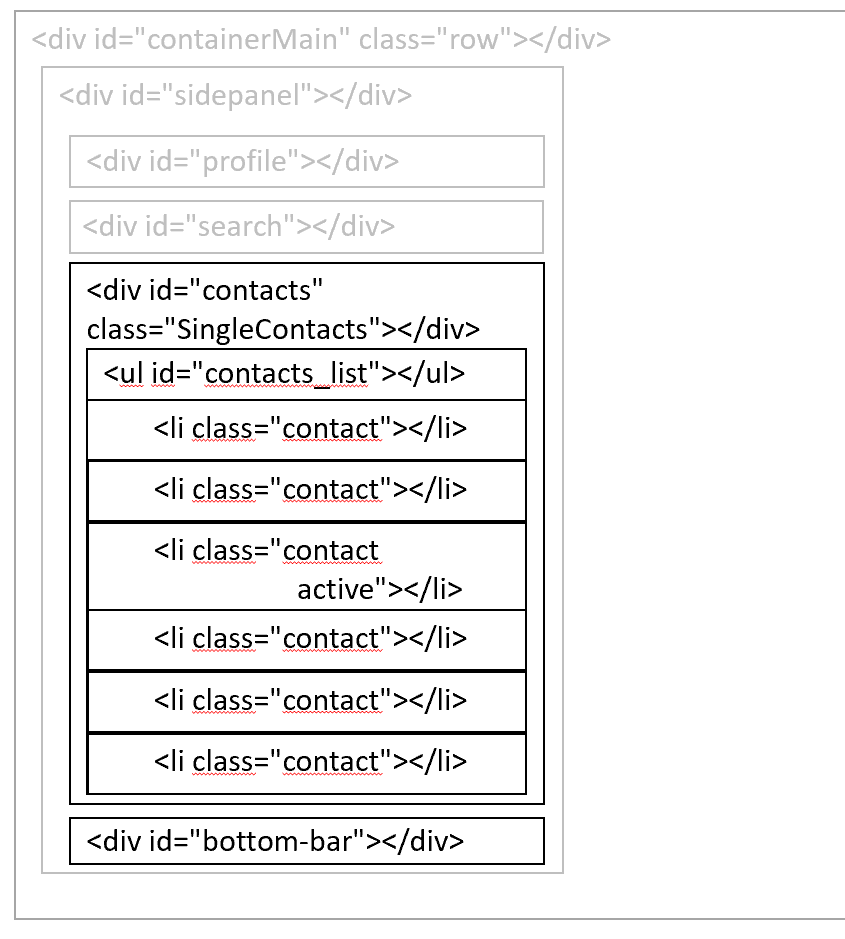
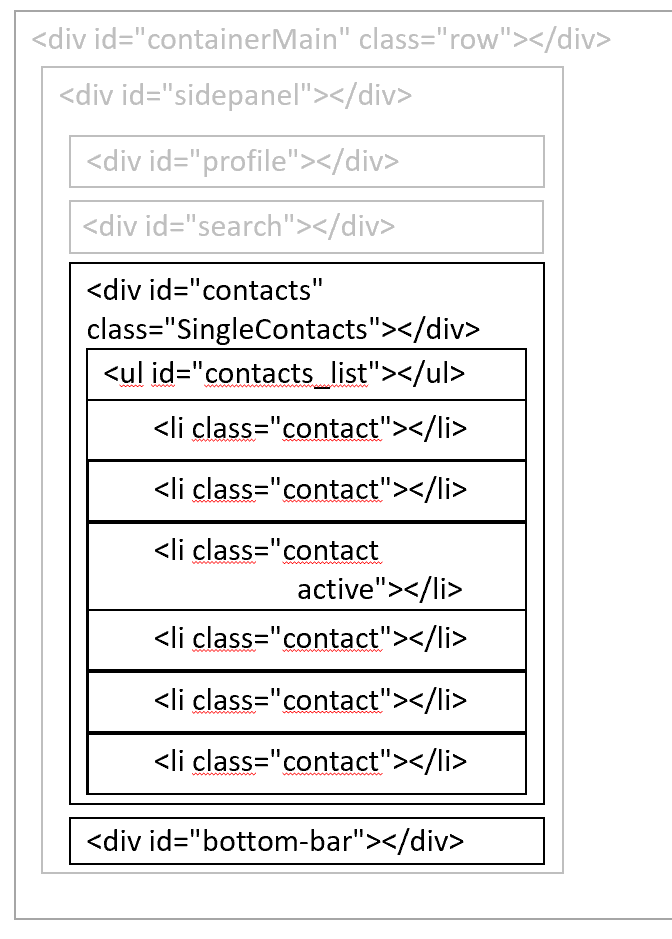
change pictures and refactoring of chapter frontend

diff --git a/LaTeX/Studienarbeit.tex b/LaTeX/Studienarbeit.tex
@@ -285,6 +285,32 @@ Ort, Datum & Oliver Klapper
 \newpage
 \pagenumbering{Roman}
 
+%authorenverzeichnis
+\addcontentsline{toc}{chapter}{Authorenübersicht}
+\chapter*{Autorenübersicht}
+\renewcommand{\arraystretch}{1.5}
+\begin{table}[h]
+	\centering
+	\begin{tabular*}{\linewidth}{lll@{\extracolsep{\fill}}}
+		\textbf{Kapitelnr.} & \textbf{Kapitel} & \textbf{Autor} \\
+		\hline
+		1 & Bedeutung von Instant-Messaging Systemen & Oliver K. \\
+		2 & Datenschutzrechtliche Aspekte & \\
+		3 & Anforderungen & Oliver K. \\
+		4 & Theoretische Grundlagen & Oliver K., Lukas P. \\
+		5 & Umsetzung und Implementierung & Oliver K., Lukas P.\\
+		6 & Umsetzung der Entwicklung einer REST API & Oliver K.\\
+		7 & Entwicklung der Frontends für den XMPP-Client & Lukas P.\\
+		8 & Entwicklung der Frontends für den Kafka-Client & Lukas P.\\
+		9 & Grundlagen von Softwaretest & Oliver K.\\
+		10 & Ergebnis & \\
+		11 & Fazit & \\
+	\end{tabular*}
+	\label{tab:autorenuebersicht}
+\end{table}
+
+\pagebreak
+
 
 %abkürzungsverzeichnis
 \cleardoublepage
@@ -2778,14 +2804,14 @@ Bei der Implementierung dynamischer Elemente, wie der Formularüberprüfung auf 
 Für die Entwicklung eines Web-Frontends bildet eine Rahmenstruktur die Basis. Hierbei handelt es sich um den Webauftritt durch die Verknüpfung mehrerer HTML-Dateien.\cite{buhler2017html5}
 Um auf den \ac{HTML}-Aufbau der Webseiten einzugehen ist das Verständnis über die Struktur und die Verknüpfung der Einzelseiten relevant. Für diese Verknüpfungen können die nachfolgenden Abbildungen betrachtet werden.
 \begin{figure}[h]
-	\begin{minipage}[c]{.4\textwidth}
-		\includegraphics[width=\textwidth]{images/HTMLDateienOrdner}
+	\begin{minipage}[c]{.38\textwidth}
+		\includegraphics[scale=0.45]{images/HTMLDateienOrdner}
 		\caption{HTML-Dateien, eigene Darstellung}
 		\label{img:HTMLDateienOrdner}
 	\end{minipage}
 	\hspace{0.05\linewidth}% Abstand zwischen Bilder
-	\begin{minipage}[c]{.4\textwidth}
-		\includegraphics[scale=0.7]{images/HTMLDateienAufrufbaum}
+	\begin{minipage}[c]{.5\textwidth}
+		\includegraphics[scale=0.5]{images/HTMLDateienAufrufbaum}
 		\caption{Interaktionen zwischen den Dateien, eigene Darstellung}
 		\label{img:DateinAufrufbaum}
 	\end{minipage}
@@ -2796,7 +2822,7 @@ Um auf den \ac{HTML}-Aufbau der Webseiten einzugehen ist das Verständnis über 
 \label{subsec:TemplateInheritance}
 Flask als microframework bietet zahlreiche Möglichkeiten. Aus \autoref{subsec:Flask} ist bekannt, dass Flask mehrere Komponenten beinhaltet. Eines kann als Jinja identifiziert werden, welches unter anderem als Template-Bibliothek bezeichnet wird. Wie dem vorherigen Abschnitt zu entnehmen ist, handelt es sich bei dem Konzept des Frontends um die Vererbung von HTML-Elementen. Ein Konzept, welche durch Jinja ermöglicht wird.
 
-Die offizielle Seite von Flask bezeichnet das Vererben von HTML-Vorlagen als mächtigstes Tool von Jinja. Die Vererbung erlaubt das Konstruieren eines Rahmens für den gesamten Webauftritt. Um dieses Prinzip zu verwenden werden mindestens 2 HTML-Seiten benötigt. In einem ersten Schritt wird das sogenannte \glqq Base Template\grqq definiert. Diese Seite verkörpert den Rahmen, wobei es alle Elemente, welche dauerhaft benötigt werden, implementiert. Ein Beispiel für die Grundseite ist im \autoref{lst:BaseTemplate} dargestellt.
+Die offizielle Seite von Flask bezeichnet das Vererben von HTML-Vorlagen als mächtigstes Tool von Jinja. Die Vererbung erlaubt das Konstruieren eines Rahmens für den gesamten Webauftritt. Um dieses Prinzip zu verwenden werden mindestens 2 HTML-Seiten benötigt. In einem ersten Schritt wird das sogenannte \glqq Base Template\grqq\ definiert. Diese Seite verkörpert den Rahmen, wobei es alle Elemente, welche dauerhaft benötigt werden, implementiert. Ein Beispiel für die Grundseite ist im \autoref{lst:BaseTemplate} dargestellt.
 \begin{lstlisting}[language=HTML,caption=Beispiel einer Grundseite für das Vererbungsprinzip,label={lst:BaseTemplate}]
 <!doctype html>
 <html>
@@ -2940,13 +2966,22 @@ Dem Container, unterhalb der search-Box, kann eine größere Relevanz zugeordnet
 
 Wie die einzelnen Kontakte in den Container integriert werden können, kann der nachfolgenden \autoref{img:SidepanelContacts} entnommen werden. 
 \begin{figure}[h]
-	\centering
-	\includegraphics[scale=0.55]{images/SidepanelContacts}
-	\caption{Darstellung der Kontakte als HTML-Elemente, eigene Darstellung}
-	\label{img:SidepanelContacts}
+	\begin{minipage}[c]{.48\textwidth}
+		\centering
+		\includegraphics[scale=0.52]{images/SidepanelContacts}
+		\caption{Darstellung der Kontakte als HTML-Elemente, eigene Darstellung}
+		\label{img:SidepanelContacts}
+	\end{minipage}
+	\hspace{0.055\linewidth}% Abstand zwischen Bilder
+	\begin{minipage}[c]{.43\textwidth}
+		\centering
+		\includegraphics[scale=0.35]{images/KontaktlisteUserview}
+		\caption{Darstellung der Kontakte (User View), eigene Darstellung}
+		\label{img:KontaktlisteUserview}
+	\end{minipage}
 \end{figure}
 Hierfür kommen die Listen-Elemente von HTML5 zum Einsatz. Das \texttt{ul} definiert die Liste und steht für eine \textit{unordered list}. Kindelemente des \texttt{ul}-Tags sind die \texttt{li}-Tags. Diese definieren ein Listeneintrag.
-Übertragen auf die Funktion handelt es sich bei dem \texttt{ul-Tag} um die Initialisierung einer Liste von Kontakten. Entsprechend symbolisieren die li-Container einen einzelnen Kontakt. Standardmäßig werden Listen unter HTML5 mit Bullets markiert. Diese Eigenschaft kann mithilfe von CSS verhindert werden. Die Klassennamen nehmen Bezug zur den dynamischen und gestalterischen Inhalten. Aus diesem Grund unterscheidet sich ein Klassenname von den anderen. Das Resultat davon, ist die Gestaltung eines einzelnen Kontaktes. Dadurch kann dem Benutzer ein Kontakt als \glqq aktiv\grqq bzw. ausgewählt dargestellt werden. Die Darstellung aus Sicht des Benutzers ist in \autoref{img:GochatUserview} ersichtlich. \cite{w3schoolsUlTag}\\
+Übertragen auf die Funktion handelt es sich bei dem \texttt{ul-Tag} um die Initialisierung einer Liste von Kontakten. Entsprechend symbolisieren die li-Container einen einzelnen Kontakt. Standardmäßig werden Listen unter HTML5 mit Bullets markiert. Diese Eigenschaft kann mithilfe von CSS verhindert werden. Die Klassennamen nehmen Bezug zur den dynamischen und gestalterischen Inhalten. Aus diesem Grund unterscheidet sich ein Klassenname von den anderen. Das Resultat davon, ist die Gestaltung eines einzelnen Kontaktes. Dadurch kann dem Benutzer ein Kontakt als \glqq aktiv\grqq bzw. \glqq ausgewählt\grqq dargestellt werden. Die Darstellung aus Sicht des Benutzers ist in \autoref{img:KontaktlisteUserview} ersichtlich. \cite{w3schoolsUlTag}\\
 Mit der Umsetzung der zusätzlichen Optionen wird der \texttt{bottom-bar} zwei Buttons zugeteilt, welche diese Optionen bereitstellen sollen. Für die div-Box mit der id \texttt{content-window} ist die Vorgehensweise identisch, um alle Aufgabenbereiche, aus den Anforderungen, in der grafischen Benutzeroberfläche abzudecken. Diesem Container müssen daher folgende Bestandteile zugeordnet werden.
 \begin{itemize}
 	\item Profilanzeige des Chatpartners
@@ -2956,14 +2991,14 @@ Mit der Umsetzung der zusätzlichen Optionen wird der \texttt{bottom-bar} zwei B
 In Abhängigkeit dieser definierten Bestandteile wird jedem ein Container zugeteilt, der die Aufgaben innehalten soll.
 \begin{figure}[h]
 	\centering
-	\includegraphics[width=\linewidth]{images/BasisStruktur1GochatContentWindow}
+	\includegraphics[scale=0.63]{images/BasisStruktur1GochatContentWindow}
 	\caption{Erweiterung des Containers \textit{content-window} um die aufgezählten Bestandteile, eigene Darstellung}
 	\label{img:Content-window}
 \end{figure}
 Der Klasse \texttt{contact-profil} sind die gleichen HTML-Elemente wie der div-Box \texttt{profile} untergeordnet. Ergänzend dazu ist dem Kontaktprofil des Chatpartners ein Dropdownmenü zugeteilt, welches weitere Optionen bereitstellen soll. Für die Struktur von gochat.html wird dieses Element nicht benötigt. Außerdem ist das Dropdownmenü überwiegend ein CSS-Element, weshalb es kein wichtiger Aspekt in der Struktur darstellt. Der Container mit der Id \texttt{messages-container} bildet lediglich einen Rahmen um die Nachrichten des Chats, weshalb der Container keine besonderen Attribute hat. Dem Container werden ausschließlich weiteren HTML-Elemente zugeteilt. Die Nachrichten entstehen zur Laufzeit und sind daher nur in der Gestaltung zu erläutern. Dafür ist die \autoref{img:ContentWindowChatMessages} zu beachten. Der Abbildung zur Folge hat der Nachrichten-Container eine weitere div-Box sowie Listen-Elemente gekennzeichnet mit dem \texttt{ul} und \texttt{li}-Tag. Übertragen auf die Darstellung der Nachrichten aus \autoref{img:GochatUserview} bilden die Listeneintrag eine einzelne Nachricht. Die Nachrichten werden entsprechend der unterschiedlichen Klassennamen identifiziert. Der \texttt{li}-Tag mit der Klasse \texttt{clearfix} symbolisiert die empfangenen Nachrichten.
 \begin{figure}[h]
 	\centering
-	\includegraphics[scale=0.5]{images/ContentWindowChatMessages}
+	\includegraphics[scale=0.6]{images/ContentWindowChatMessages}
 	\caption{HTML-Ansicht der Nachrichten, eigene Darstellung}
 	\label{img:ContentWindowChatMessages}
 \end{figure}
@@ -2971,7 +3006,7 @@ Demzufolge steht der leere li-Tag für die gesendeten Nachrichten. Für die deta
 Das Hauptmerkmal der Klasse \texttt{input-group} ist das Textfeld und der Button, welches es innehat. Dadurch wird dem Nutzer gewährleistet seine Nachrichten einzugeben und über ein Button zu senden. Weitere HTML-Elemente spielen in der Struktur keine Rolle und sind daher nicht weiters aufgeführt. Alle Elemente, welche die Struktur der gochat.html Datei beschreiben sind in der \autoref{img:Content-window} aufgeführt. Unter der Verwendung von Bootstrap und eigenen Styles zeigt die \autoref{img:GochatUserview} die Hauptseite aus der Sicht des Benutzers.
 \begin{figure}[h]
 	\centering
-	\includegraphics[scale=1.2]{images/GochatUserAnsicht}
+	\includegraphics[scale=0.4]{images/GochatUserAnsicht}
 	\caption{gochat.html aus Sicht des Nutzers, eigene Darstellung}
 	\label{img:GochatUserview}
 \end{figure}
@@ -3675,7 +3710,7 @@ Zuerst werden die Funktionen für das Senden von Nachrichten erörtert. Dafür w
 	\label{tab:SendFunctionsKafka}
 \end{table}
 
-Im Schritt werden mittels \texttt{getSendingInformations()} die Informationen bereitgestellt. Dabei handelt es sich um Parameter, die für das \texttt{chat\_messages-Objekt}, der Ausgabe und dem Request an den Server, benötigt werden.
+Im ersten Schritt werden mittels \texttt{getSendingInformations()} die Informationen bereitgestellt. Dabei handelt es sich um Parameter, die für das \texttt{chat\_messages-Objekt}, der Ausgabe und dem Request an den Server, benötigt werden.
 \begin{lstlisting}[language=Javascript,caption=\texttt{getSendingInformations()},label={lst:JSKafkagetSendingInfo}]
 var informations = {}
 var msg = $('#input-message').val().trim();
